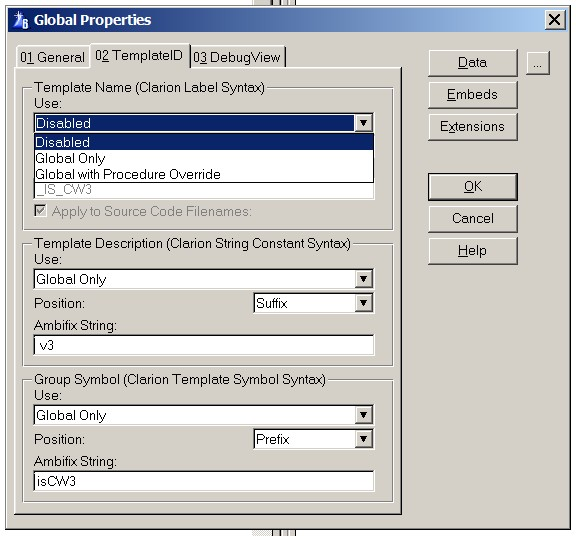
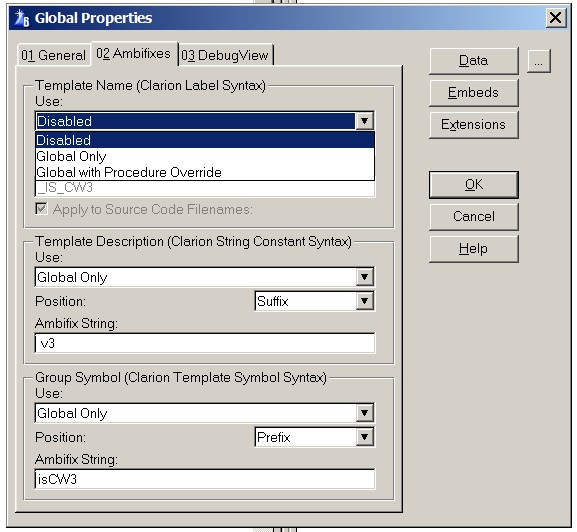
a

diff --git a/refactoring.md b/refactoring.md
@@ -19,22 +19,26 @@ Three types of Ambifixes exist, the rules are shown below, which apply globally 
 
 ![Ambifix Global ](https://github.com/Intelligent-Silicon/TemplateBuilder/blob/main/pics/ambifixglobal.jpg)
 
-Whilst it can now remove the [DLL Hell](https://en.wikipedia.org/wiki/DLL_hell) aspect from your own program DLL's, it doesnt completely remove DLL Hell when using external libraries and it doesnt remove a hacker's ability to use [Shim's](https://cloud.google.com/blog/topics/threat-intelligence/abusing-dll-misconfigurations/) to intercept the data your program is exchanging with DLL's.
+Whilst it can now remove the [DLL Hell](https://en.wikipedia.org/wiki/DLL_hell) aspect from your own program DLL's, it doesnt completely remove DLL Hell when using external libraries and it doesnt remove a hacker's ability to use [Shim's](https://cloud.google.com/blog/topics/threat-intelligence/abusing-dll-misconfigurations/) to intercept the data your program is exchanging with DLL's, it just introduces a new hurdle.
 
-A unique Ambifix can be used for every instance of a program that is generated and compiled, or for every instance of template that is built by TemplateBuilder.
+If using ambifixes with a new unique GUID for every version released to a customer, the GUID can help identify which customer has lax computer security if a program should ever turn up on a piracy warez site.
+
+And if using a new unique GUID for every workstation a program is to be installed on, this will increase the workload for IT administrators having to create a file signature hash for [MS Windows Group Policy](https://learn.microsoft.com/en-us/windows-server/identity/software-restriction-policies/work-with-software-restriction-policies-rules) or [MS AppLocker](https://learn.microsoft.com/en-us/windows/security/application-security/application-control/app-control-for-business/applocker/create-a-rule-that-uses-a-file-hash-condition).
+
+A unique Ambifix can be used for every instance of a program that is generated and compiled, or for every instance of a template that is built by TemplateBuilder.
 
 You have full control over the Ambifix, you can choose to make it a GUID, a version number, or just a simple alphanumeric string like the type seen appended to the end of Microsoft Store Apps, provided its compliant with the rules for a label, string or ```%symbol```.
 
 With Clarion 6's DDE remote control, and Clarion 7+ [Command Line Interface Utility](https://clarion.help/doku.php?id=customizing_the_command_line_interface_clarioncl_exe_.htm&s[]=command&s[]=line), the ability to generate a unique alphanumeric Ambifix, can force more work onto hacker's as the lifespan of their shim's becomes shorter with each new version.
 
-The underlying procedure name remains unchanged in the AppGen, so the different AppGen views retain their familiarity by not changing the procedure names, but the generated code, beit Clarion template language code or Clarion language code, is updated automatically at the time of code generation. 
+The underlying procedure name remains unchanged in the AppGen, so the different AppGen views retain their familiarity by not changing the procedure names, but the generated code, beit Clarion template language code, Clarion language code or any other program language code, is updated automatically at code generation time.
 
 
-In terms of templates, the Ambifix ensure's a template can only load the correct templates and groups, when multiple versions of a template are registered in the Template Registry and avoids loading the wrong templates and groups because a 3rd party template developer has used the same name.
+In terms of templates, the Ambifix ensures a template can only load the correct templates and groups, when multiple versions of a template are registered in the Template Registry and avoids loading the wrong templates and groups because a 3rd party template has used the same name for a template or group symbol.
 
-This can be useful for development of new template versions, whilst keeping existing versions registered in the Template Registry, without any conflict.
+This can be useful for side by side development of new template versions, whilst keeping existing versions registered in the Template Registry, without any conflict.
 
-Once template development is completed, its just as quick switching off Ambifixes and have everything resort back to the original procedure name before shipping the upgraded template to users. This removes the continuity issues where user's have to fill in the template prompts again.
+Once template development is completed, its just as quick switching off of Ambifixes and have everything resort back to the original template name or group symbol name, both derived from the procedure name used in the AppGen before shipping the upgraded template to users. This final step also removes the continuity issues where user's have to refill the template prompts again, whilst giving template developers the option to introduce new templates as seen with the Edit-In-Place templates.
 
 ![Ambifixes](https://github.com/Intelligent-Silicon/TemplateBuilder/blob/main/pics/ambifixes.jpg)
 
